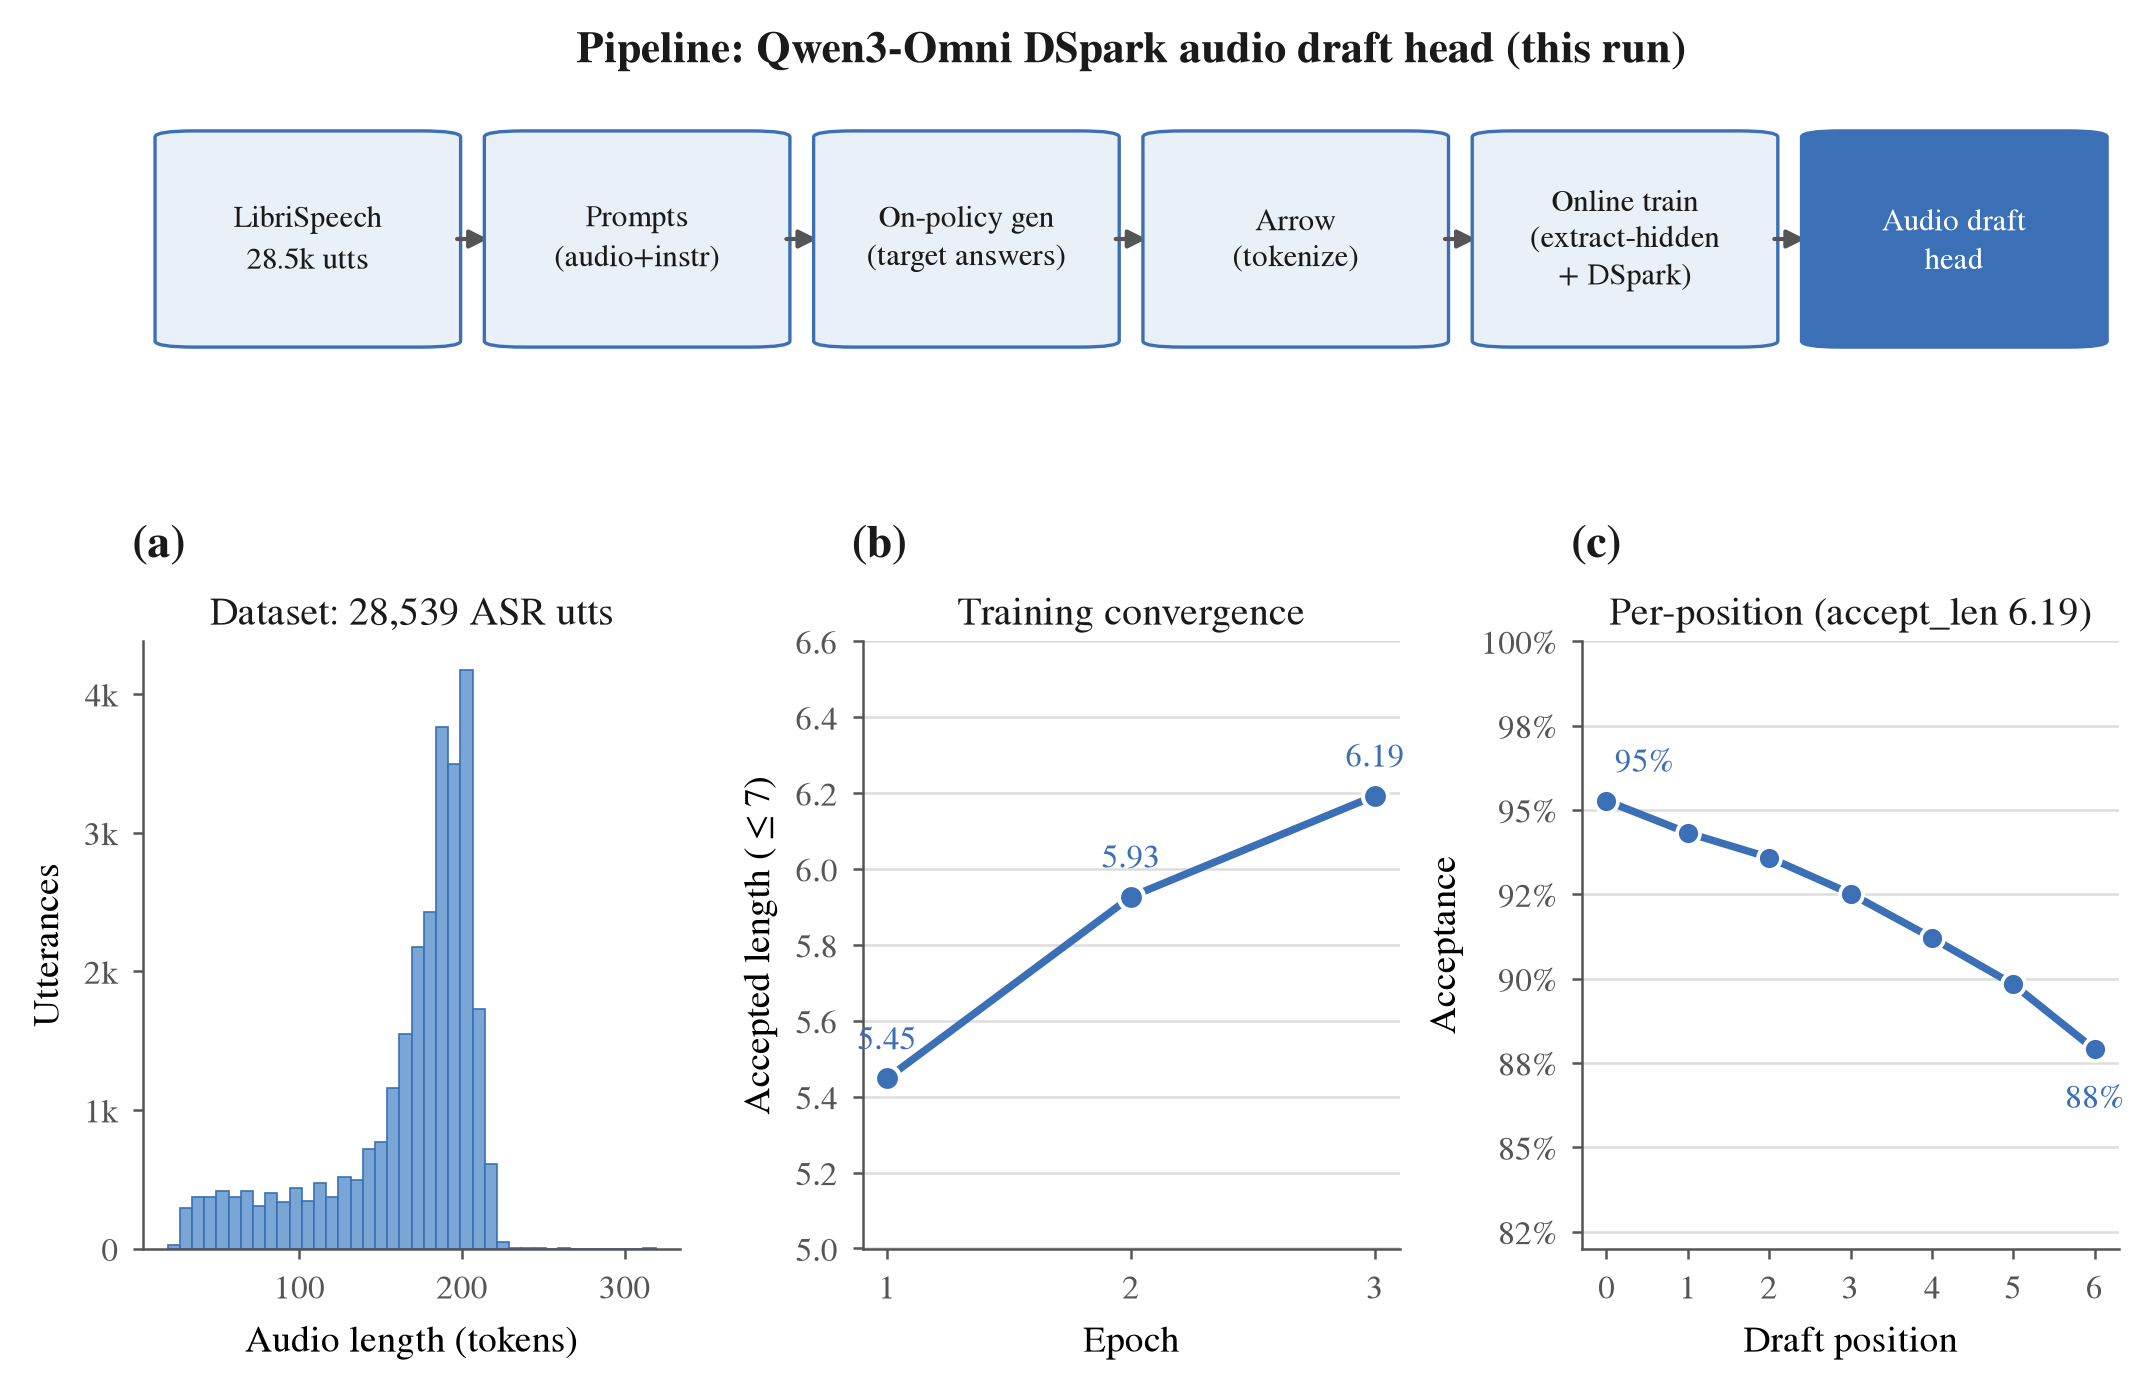
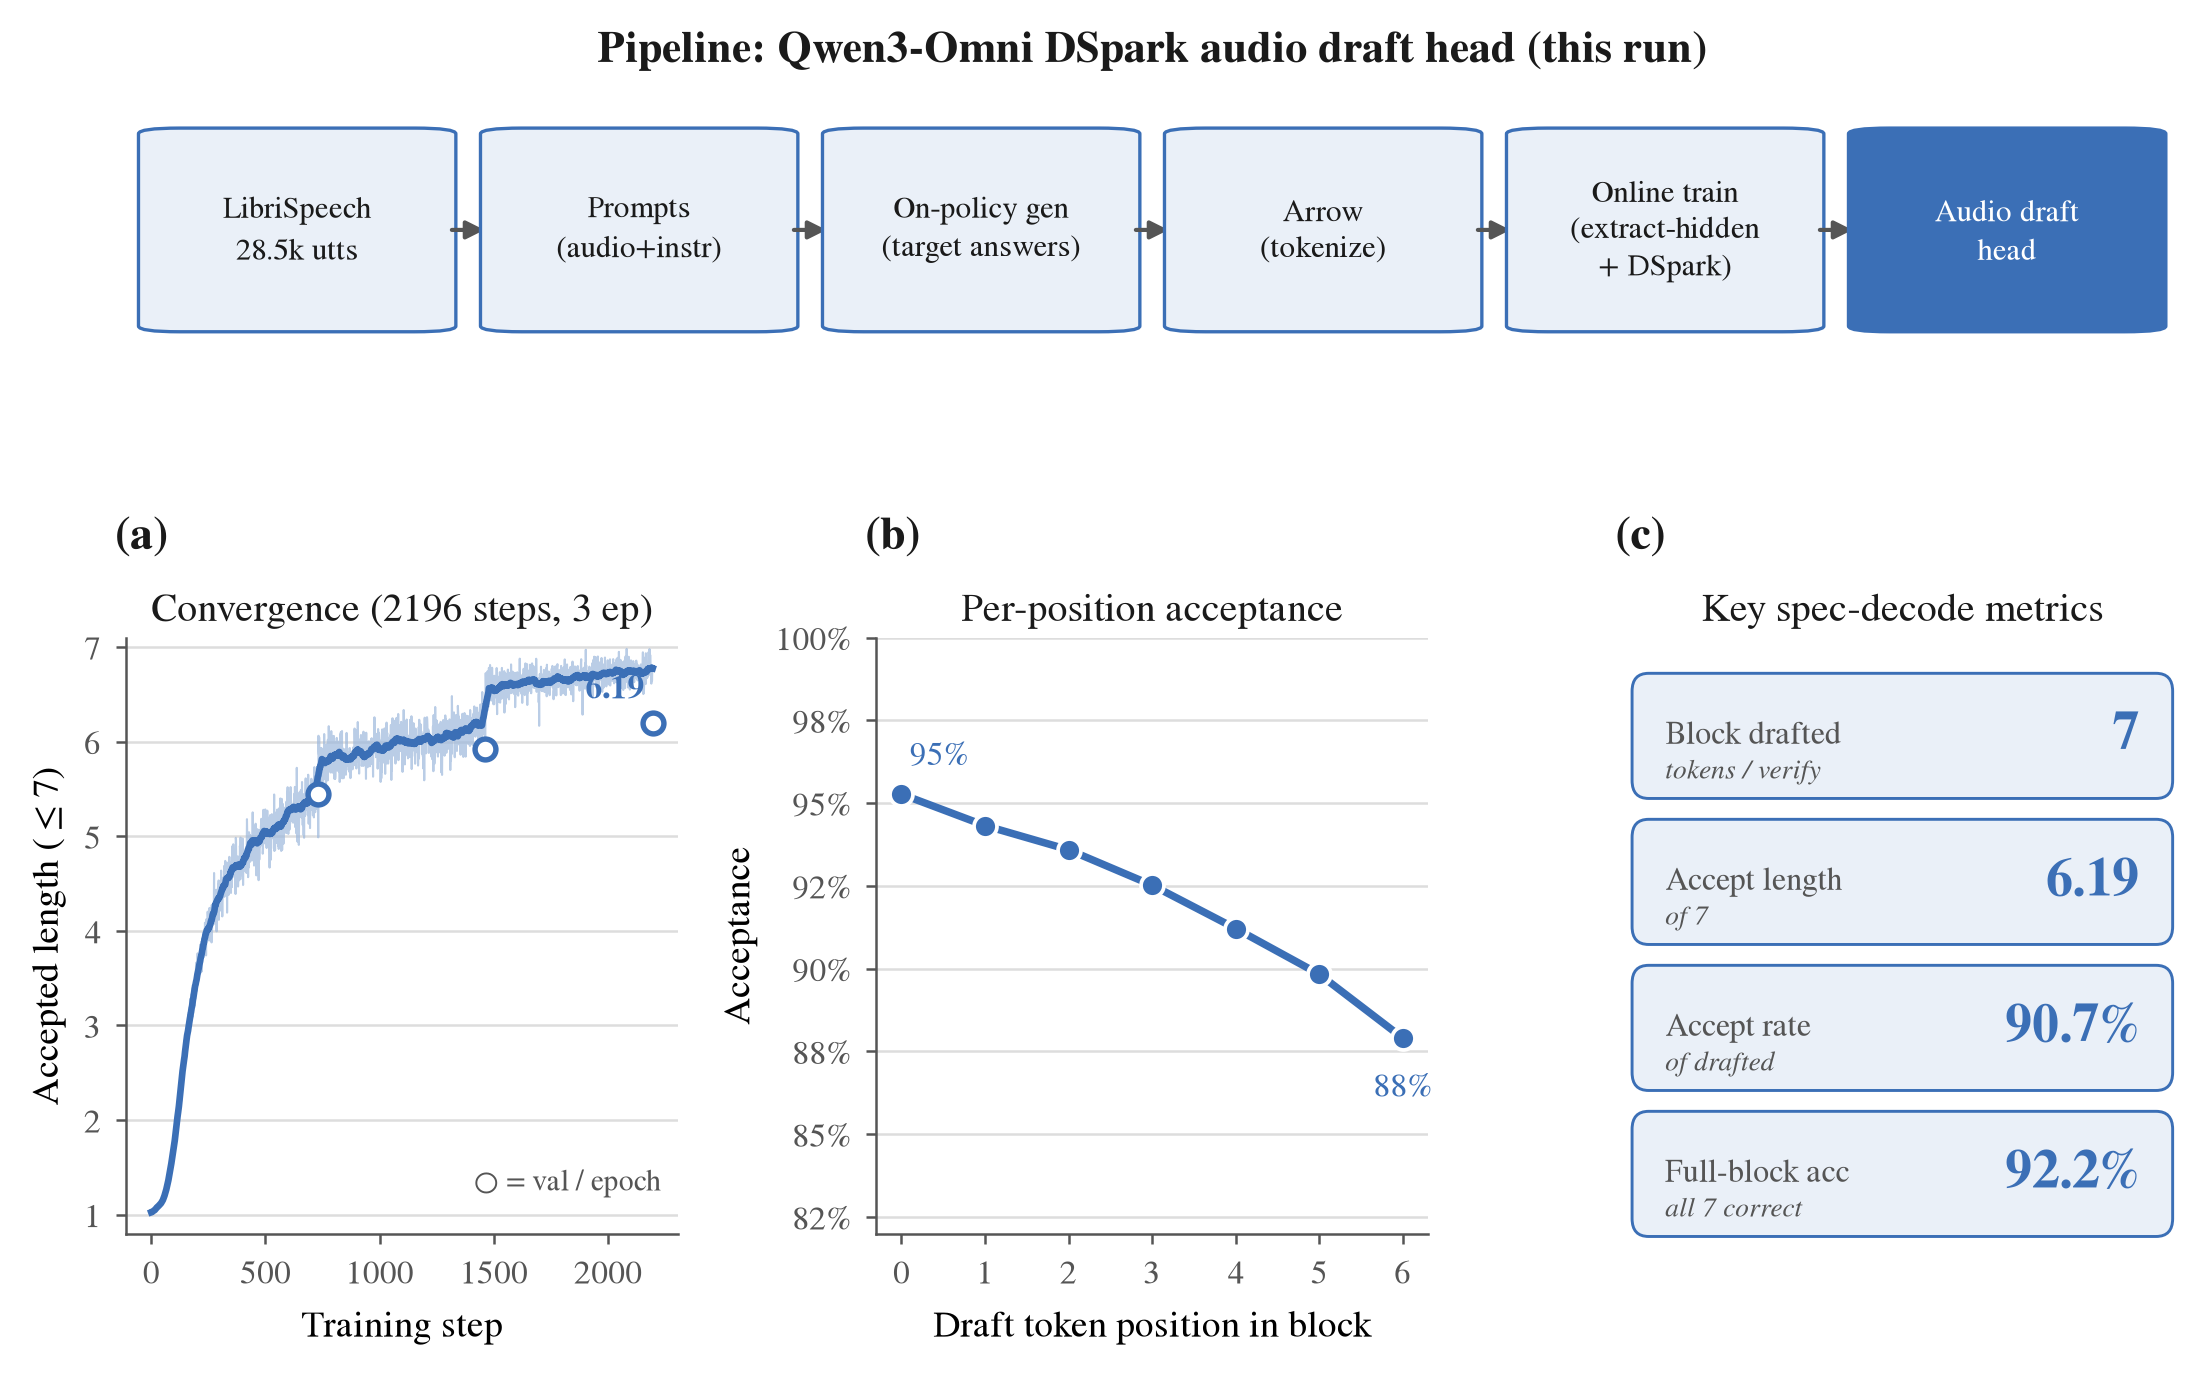
Revise audio head profile: fine-grained convergence + key spec-decode metrics
Drop the audio-length panel; show per-step accept_len over 2196 steps with
per-epoch validation, per-position acceptance, and headline spec-decode
metrics (block=7, accept_len 6.19/7, accept_rate 90.7%, full-block 92.2%).

diff --git a/scripts/plot_dspark_audio_profile.py b/scripts/plot_dspark_audio_profile.py
@@ -1,13 +1,18 @@
 """Self-contained profile figure for the Qwen3-Omni DSpark **audio** draft head.
 
-DSpark-style presentation of THIS training run — no cross-model comparison.
-Shows: (top) the pipeline we built; (bottom) dataset distribution, training
-convergence, and the final per-position acceptance profile.
+DSpark-style presentation of THIS training run (no cross-model comparison):
+(top) the pipeline; (bottom) fine-grained training convergence, final per-position
+acceptance, and the headline speculative-decoding metrics.
+
+Data: 28,539 LibriSpeech train-clean-100 utterances, 3 epochs, block_size=7, aux
+[2,13,24,35,46], vanilla Markov head (rank 256). Per-step accept_len from
+dspark_audio_train_curve.json; final metrics from checkpoint_best/val_metrics.json.
 
 Outputs vector PDF (LaTeX) + PNG. Serif (STIX), editable text embedded.
 Run: python scripts/plot_dspark_audio_profile.py [--out-prefix PATH]
 """
 import argparse
+import json
 import os
 
 import matplotlib
@@ -18,21 +23,13 @@ import numpy as np
 from matplotlib.patches import FancyArrowPatch, FancyBboxPatch
 from matplotlib.ticker import PercentFormatter
 
-# ── measured results (Qwen3-Omni-30B-A3B, LibriSpeech train-clean-100, 3 ep) ──
-N_SAMPLES = 28539
+# ── final measured results ──────────────────────────────────────────────────
 POS_ACC = [0.9527, 0.9432, 0.9359, 0.9252, 0.9121, 0.8983, 0.8790]
-EPOCHS = [1, 2, 3]
-ACCEPT_LEN = [5.448, 5.927, 6.193]
-VAL_LOSS = [0.254, 0.194, 0.178]
 BLOCK = 7
-ACCEPT_RATE, FULL_ACC = 0.907, 0.922
-
-# dataset histogram fallback (used only if the raw array is unavailable)
-PAD_BINS = [(0, 50, 1129), (50, 100, 2498), (100, 150, 3321),
-            (150, 200, 15592), (200, 250, 5996), (250, 320, 3)]
+ACCEPT_LEN, ACCEPT_RATE, FULL_ACC = 6.19, 0.907, 0.922
 
 C = "#3b6fb6"
-C2 = "#7aa6d6"
+C2 = "#9db8dc"
 INK = "#1a1a1a"
 MUTED = "#555555"
 GRID = "#dddddd"
@@ -59,23 +56,16 @@ def _style(ax):
 
 
 def _plabel(ax, t):
-    ax.text(-0.02, 1.12, t, transform=ax.transAxes, fontsize=11,
+    ax.text(-0.02, 1.13, t, transform=ax.transAxes, fontsize=11,
             fontweight="bold", va="bottom", ha="left", color=INK)
 
 
 def _pipeline(ax):
     ax.axis("off")
-    steps = [
-        "LibriSpeech\n28.5k utts",
-        "Prompts\n(audio+instr)",
-        "On-policy gen\n(target answers)",
-        "Arrow\n(tokenize)",
-        "Online train\n(extract-hidden\n+ DSpark)",
-        "Audio draft\nhead",
-    ]
-    n = len(steps)
-    xw, gap = 1.0 / n, 0.012
-    y, h = 0.15, 0.7
+    steps = ["LibriSpeech\n28.5k utts", "Prompts\n(audio+instr)",
+             "On-policy gen\n(target answers)", "Arrow\n(tokenize)",
+             "Online train\n(extract-hidden\n+ DSpark)", "Audio draft\nhead"]
+    n = len(steps); xw, gap = 1.0 / n, 0.012; y, h = 0.15, 0.7
     for i, s in enumerate(steps):
         x = i * xw
         fc = C if i == n - 1 else BOX
@@ -87,76 +77,101 @@ def _pipeline(ax):
         ax.text(x + xw / 2, y + h / 2, s, transform=ax.transAxes, ha="center",
                 va="center", fontsize=7.4, color=tc, linespacing=1.25)
         if i < n - 1:
-            ax.add_patch(FancyArrowPatch(
-                (x + xw - gap, y + h / 2), (x + xw + gap, y + h / 2),
-                transform=ax.transAxes, arrowstyle="-|>", mutation_scale=9,
-                lw=1.0, color=MUTED, clip_on=False))
+            ax.add_patch(FancyArrowPatch((x + xw - gap, y + h / 2), (x + xw + gap, y + h / 2),
+                         transform=ax.transAxes, arrowstyle="-|>", mutation_scale=9,
+                         lw=1.0, color=MUTED, clip_on=False))
+
+
+def _smooth(y, w=31):
+    # Edge-aware moving average: divide by the actual window count at the
+    # boundaries so the smoothed line doesn't droop toward zero at the ends.
+    y = np.asarray(y, dtype=float)
+    if len(y) < w:
+        return y
+    kernel = np.ones(w)
+    num = np.convolve(y, kernel, mode="same")
+    den = np.convolve(np.ones_like(y), kernel, mode="same")
+    return num / den
 
 
 def main():
     ap = argparse.ArgumentParser()
     ap.add_argument("--out-prefix", default="dspark_audio_profile")
-    ap.add_argument("--pad-npy", default="/home/zjy/wan_probe/ds_pad.npy")
+    ap.add_argument("--curve", default=os.path.join(os.path.dirname(__file__),
+                    "dspark_audio_train_curve.json"))
     a = ap.parse_args()
     _rc()
 
-    fig = plt.figure(figsize=(7.4, 4.9))
-    gs = fig.add_gridspec(2, 3, height_ratios=[0.5, 1], hspace=0.55, wspace=0.34,
-                          left=0.08, right=0.97, top=0.9, bottom=0.11)
+    curve = json.load(open(a.curve))
+    al = np.array(curve["accept_len"])
+    val = curve["val_epoch_accept_len"]
+    spe = curve["steps_per_epoch"]
 
-    axp = fig.add_subplot(gs[0, :])
-    _pipeline(axp)
+    fig = plt.figure(figsize=(7.6, 4.9))
+    gs = fig.add_gridspec(2, 3, height_ratios=[0.48, 1], hspace=0.6, wspace=0.36,
+                          left=0.075, right=0.975, top=0.9, bottom=0.12)
+
+    axp = fig.add_subplot(gs[0, :]); _pipeline(axp)
     axp.set_title("Pipeline: Qwen3-Omni DSpark audio draft head (this run)",
                   fontsize=10.5, fontweight="bold", color=INK, pad=6)
 
-    # (a) dataset: audio token-length distribution
+    # (a) fine-grained training convergence — accept_len over every step
     axa = fig.add_subplot(gs[1, 0]); _style(axa)
-    if os.path.exists(a.pad_npy):
-        pad = np.load(a.pad_npy)
-        axa.hist(pad, bins=40, color=C2, edgecolor=C, linewidth=0.4)
-    else:
-        centers = [(lo + hi) / 2 for lo, hi, _ in PAD_BINS]
-        axa.bar(centers, [c for *_, c in PAD_BINS],
-                width=45, color=C2, edgecolor=C, linewidth=0.4)
-    axa.set_xlabel("Audio length (tokens)")
-    axa.set_ylabel("Utterances")
-    axa.set_title(f"Dataset: {N_SAMPLES:,} ASR utts", fontsize=9.5, color=INK, pad=4)
-    axa.set_yticks([0, 1000, 2000, 3000, 4000])
-    axa.set_yticklabels(["0", "1k", "2k", "3k", "4k"])
+    axa.yaxis.grid(True, color=GRID, linewidth=0.6); axa.set_axisbelow(True)
+    x = np.arange(len(al))
+    axa.plot(x, al, color=C2, lw=0.5, alpha=0.7)
+    axa.plot(x, _smooth(al), color=C, lw=1.6)
+    for e, v in enumerate(val, start=1):
+        axa.plot(e * spe - 1, v, marker="o", ms=5, mfc="white", mec=C, mew=1.3, zorder=5)
+    axa.annotate(f"{val[-1]:.2f}", (len(al) - 1, val[-1]), textcoords="offset points",
+                 xytext=(-2, 6), ha="right", color=C, fontsize=8, fontweight="bold")
+    axa.set_ylim(0.8, 7.1)
+    axa.set_xlabel("Training step")
+    axa.set_ylabel(r"Accepted length ($\leq 7$)")
+    axa.set_title("Convergence (2196 steps, 3 ep)", fontsize=9.5, color=INK, pad=4)
+    axa.text(0.97, 0.06, "○ = val / epoch", transform=axa.transAxes, ha="right",
+             va="bottom", fontsize=7, color=MUTED)
     _plabel(axa, "(a)")
 
-    # (b) training convergence: accept_len per epoch
+    # (b) final per-position acceptance
     axb = fig.add_subplot(gs[1, 1]); _style(axb)
     axb.yaxis.grid(True, color=GRID, linewidth=0.6); axb.set_axisbelow(True)
-    axb.plot(EPOCHS, ACCEPT_LEN, color=C, lw=1.8, marker="o", ms=6,
-             mfc=C, mec="white", mew=1.0)
-    for x, y in zip(EPOCHS, ACCEPT_LEN):
-        axb.annotate(f"{y:.2f}", (x, y), textcoords="offset points",
-                     xytext=(0, 7), ha="center", color=C, fontsize=8)
-    axb.set_ylim(5.0, 6.6)
-    axb.set_xticks(EPOCHS)
-    axb.set_xlabel("Epoch")
-    axb.set_ylabel(r"Accepted length ($\leq 7$)")
-    axb.set_title("Training convergence", fontsize=9.5, color=INK, pad=4)
+    axb.plot(range(BLOCK), POS_ACC, color=C, lw=1.8, marker="o", ms=5.5,
+             mfc=C, mec="white", mew=0.9)
+    axb.annotate(f"{POS_ACC[0]:.0%}", (0, POS_ACC[0]), textcoords="offset points",
+                 xytext=(2, 7), ha="left", color=C, fontsize=8)
+    axb.annotate(f"{POS_ACC[-1]:.0%}", (6, POS_ACC[-1]), textcoords="offset points",
+                 xytext=(0, -14), ha="center", color=C, fontsize=8)
+    axb.set_ylim(0.82, 1.0)
+    axb.set_xticks(range(BLOCK))
+    axb.yaxis.set_major_formatter(PercentFormatter(xmax=1, decimals=0))
+    axb.set_xlabel("Draft token position in block")
+    axb.set_ylabel("Acceptance")
+    axb.set_title("Per-position acceptance", fontsize=9.5, color=INK, pad=4)
     _plabel(axb, "(b)")
 
-    # (c) final per-position acceptance
-    axc = fig.add_subplot(gs[1, 2]); _style(axc)
-    axc.yaxis.grid(True, color=GRID, linewidth=0.6); axc.set_axisbelow(True)
-    axc.plot(range(BLOCK), POS_ACC, color=C, lw=1.8, marker="o", ms=5.5,
-             mfc=C, mec="white", mew=0.9)
-    axc.annotate(f"{POS_ACC[0]:.0%}", (0, POS_ACC[0]), textcoords="offset points",
-                 xytext=(2, 7), ha="left", color=C, fontsize=8)
-    axc.annotate(f"{POS_ACC[-1]:.0%}", (6, POS_ACC[-1]), textcoords="offset points",
-                 xytext=(0, -14), ha="center", color=C, fontsize=8)
-    axc.set_ylim(0.82, 1.0)
-    axc.set_xticks(range(BLOCK))
-    axc.yaxis.set_major_formatter(PercentFormatter(xmax=1, decimals=0))
-    axc.set_xlabel("Draft position")
-    axc.set_ylabel("Acceptance")
-    axc.set_title(f"Per-position (accept_len {ACCEPT_LEN[-1]:.2f})",
-                  fontsize=9.5, color=INK, pad=4)
+    # (c) headline speculative-decoding metrics (stat tile)
+    axc = fig.add_subplot(gs[1, 2]); axc.axis("off")
     _plabel(axc, "(c)")
+    axc.set_title("Key spec-decode metrics", fontsize=9.5, color=INK, pad=4)
+    tiles = [
+        ("Block drafted", f"{BLOCK}", "tokens / verify"),
+        ("Accept length", f"{ACCEPT_LEN:.2f}", f"of {BLOCK}"),
+        ("Accept rate", f"{ACCEPT_RATE:.1%}", "of drafted"),
+        ("Full-block acc", f"{FULL_ACC:.1%}", "all 7 correct"),
+    ]
+    for i, (label, val_s, sub) in enumerate(tiles):
+        yy = 0.90 - i * 0.245
+        axc.add_patch(FancyBboxPatch((0.02, yy - 0.16), 0.96, 0.19,
+                      boxstyle="round,pad=0.01,rounding_size=0.03",
+                      linewidth=0.7, edgecolor=C, facecolor=BOX,
+                      transform=axc.transAxes, clip_on=False))
+        axc.text(0.07, yy - 0.065, label, transform=axc.transAxes, fontsize=7.6,
+                 color=MUTED, va="center")
+        axc.text(0.93, yy - 0.065, val_s, transform=axc.transAxes, fontsize=13,
+                 fontweight="bold", color=C, va="center", ha="right")
+        axc.text(0.07, yy - 0.125, sub, transform=axc.transAxes, fontsize=6.6,
+                 color=MUTED, va="center", style="italic")
 
     for ext in ("pdf", "png"):
         fig.savefig(f"{a.out_prefix}.{ext}", dpi=300, bbox_inches="tight")

diff --git a/scripts/dspark_audio_head_results.md b/scripts/dspark_audio_head_results.md
@@ -36,8 +36,8 @@ train-clean-100          (audio + ASR       (target Qwen3-Omni    (tokenize,    
 | Answer length | median 45 tokens (p95 61) |
 | Task instruction | "Transcribe the audio into text." (+ paraphrases) |
 
-Distribution is shown in panel (a). Mix is aligned with the Qwen3-Omni report
-(arXiv 2509.17765): audio pretraining is ~90% ASR.
+Mix is aligned with the Qwen3-Omni report (arXiv 2509.17765): audio pretraining
+is ~90% ASR.
 
 ## Configuration
 
@@ -50,7 +50,8 @@ Distribution is shown in panel (a). Mix is aligned with the Qwen3-Omni report
 
 ## Results
 
-**Training convergence** — mean accepted length, per epoch:
+**Training convergence** (panel a) — mean accepted length rises to ~6.8 (train) over
+2196 steps; per-epoch validation:
 
 | Epoch | Accepted length (/7) | Accept rate | Val loss | Full-block acc |
 |---|---|---|---|---|
@@ -58,8 +59,13 @@ Distribution is shown in panel (a). Mix is aligned with the Qwen3-Omni report
 | 2 | 5.93 | 0.885 | 0.194 | 0.905 |
 | **3** | **6.19** | **0.907** | **0.178** | **0.922** |
 
-**Final per-position acceptance** (panel c): 95.3% → 87.9% across the 7-token block —
-barely decays. Confidence head pred-mean 0.955 (CE 0.181, TV 0.043).
+**Final per-position acceptance** (panel b) — acceptance of the draft's k-th token in
+the 7-token block: 95.3% → 87.9%, barely decays. Confidence head pred-mean 0.955
+(CE 0.181, TV 0.043).
+
+**Key speculative-decoding metrics** (panel c): the draft proposes a **block of 7**
+tokens per verifier step; **accept_len = 6.19/7** are accepted on average
+(**accept_rate 90.7%** of drafted tokens; **full-block 92.2%** of blocks accept all 7).
 
 ## Notes
 